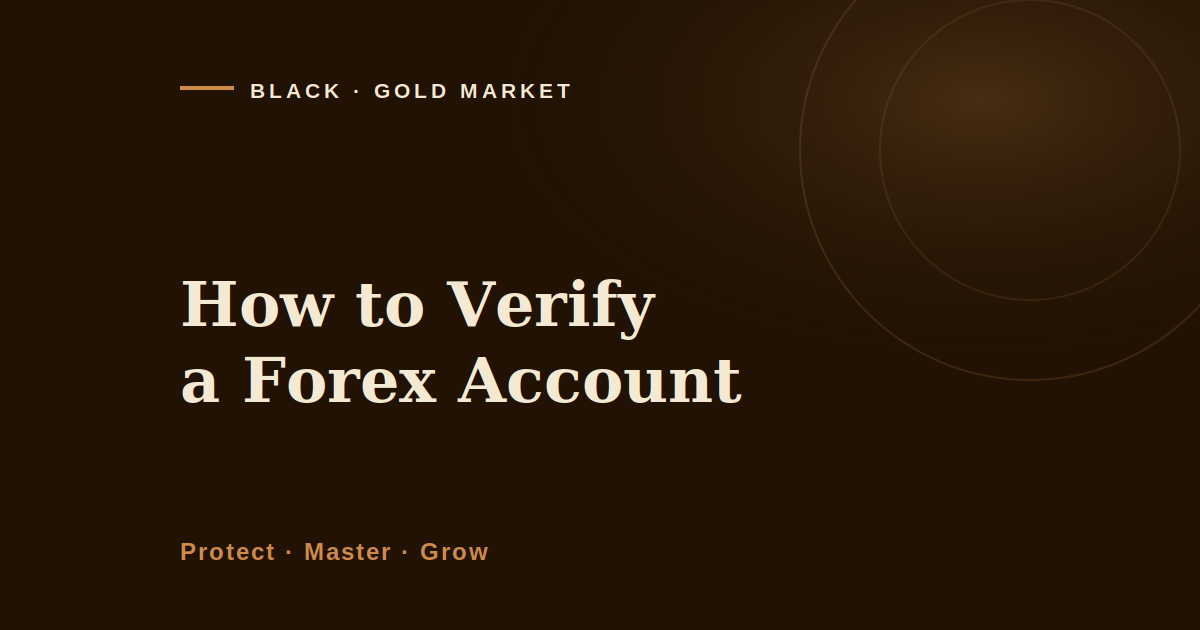
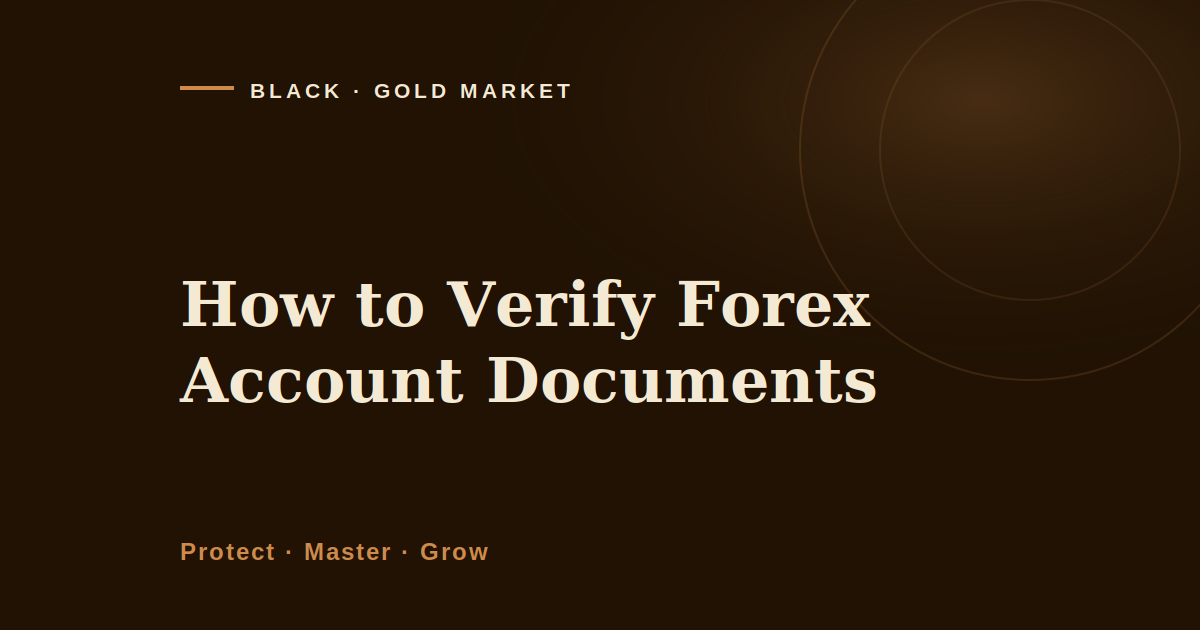
BGM 31/08: sua tieu de de chua NGUYEN CUM tu khoa chinh
Buoc kiem sau dang bat duoc: tieu de viet "How to Verify a Forex Account",
dung ngu phap nhung KHONG chua nguyen cum "how to verify forex account",
ma cong 2 doi cum phai co mat trong tieu de SEO. Chu "a" chen vao giua lam
hong nguyen cum, va may kiem cu chi so slug nen khong bat duoc.

Doi thanh "How to Verify Forex Account Documents", vua dung ngu phap vua
chua nguyen cum. Da doi dong bo o: the title, og:title, headline JSON-LD,
ten trong breadcrumb, h1, the tren ca hai trang muc luc, va ten trong
ItemList. Ve lai anh bia cho khop tieu de moi.

Claude-Session: https://claude.ai/code/session_01D4ZJMJrcRwGHYBMjWrRuSV

Changed region(s): [[0.1542, 0.5429, 0.74, 0.6635], [0.555, 0.4222, 0.74, 0.5429]]

diff --git a/journal/index.html b/journal/index.html
@@ -183,7 +183,7 @@
 </style>
 <!-- seo-schema-v1 -->
 <script type="application/ld+json">{"@context": "https://schema.org", "@type": "Blog", "name": "Black Gold Market Journal", "description": "Risk-first gold education: macro drivers, session mechanics and capital protection.", "url": "https://blackgoldmarket.us/journal/", "publisher": {"@type": "Organization", "name": "Black Gold Market", "logo": {"@type": "ImageObject", "url": "https://blackgoldmarket.us/avatar.jpg"}}, "author": {"@type": "Person", "name": "Raphael", "url": "https://blackgoldmarket.us/about.html"}}</script>
-<script type="application/ld+json">{"@context": "https://schema.org", "@type": "ItemList", "itemListElement": [{"@type": "ListItem", "position": 1, "url": "https://blackgoldmarket.us/journal/how-to-verify-forex-account.html", "name": "How to Verify a Forex Account, and Why the Broker Is Asking"}, {"@type": "ListItem", "position": 2, "url": "https://blackgoldmarket.us/journal/what-is-r1-r2-r3-in-trading.html", "name": "What Is R1 R2 R3 in Trading? The Arithmetic Behind the Lines"}, {"@type": "ListItem", "position": 3, "url": "https://blackgoldmarket.us/journal/is-forex-trading-cfd-or-spread-betting.html", "name": "Is Forex Trading CFD or Spread Betting? What You Actually Own"}, {"@type": "ListItem", "position": 4, "url": "https://blackgoldmarket.us/journal/how-to-find-a-trading-mentor.html", "name": "How to Find a Trading Mentor Without Getting Taken"}, {"@type": "ListItem", "position": 5, "url": "https://blackgoldmarket.us/journal/what-are-gold-reserves.html", "name": "What Are Gold Reserves, and Who Actually Holds Them"}, {"@type": "ListItem", "position": 6, "url": "https://blackgoldmarket.us/journal/stop-limit-order-explained.html", "name": "Stop Limit Order Explained: The Stop That Can Decline to Protect You"}, {"@type": "ListItem", "position": 7, "url": "https://blackgoldmarket.us/journal/what-is-the-difference-between-real-and-fake-gold.html", "name": "What Is the Difference Between Real and Fake Gold, and Which Tests Actually Work"}, {"@type": "ListItem", "position": 8, "url": "https://blackgoldmarket.us/journal/what-is-span-in-futures-trading.html", "name": "What Is SPAN in Futures Trading, and Who Really Sets Your Margin"}, {"@type": "ListItem", "position": 9, "url": "https://blackgoldmarket.us/journal/what-is-expectancy-in-trading.html", "name": "What Is Expectancy in Trading, and Why It Beats Chasing a Win Rate"}, {"@type": "ListItem", "position": 10, "url": "https://blackgoldmarket.us/journal/how-to-check-forex-broker-license.html", "name": "How to Check Forex Broker License Records Before You Deposit"}, {"@type": "ListItem", "position": 11, "url": "https://blackgoldmarket.us/journal/comex-vs-spot-gold-price.html", "name": "COMEX vs Spot Gold Price, Why One Metal Has Two Numbers"}, {"@type": "ListItem", "position": 12, "url": "https://blackgoldmarket.us/journal/how-much-does-it-cost-to-sell-gold.html", "name": "How Much Does It Cost to Sell Gold, and Why the Answer Is Measured in Years"}, {"@type": "ListItem", "position": 13, "url": "https://blackgoldmarket.us/journal/market-order-vs-limit-order.html", "name": "Market Order vs Limit Order, What Each Kind of Certainty Costs"}, {"@type": "ListItem", "position": 14, "url": "https://blackgoldmarket.us/journal/how-do-you-calculate-risk-reward-ratio.html", "name": "How Do You Calculate Risk Reward Ratio, and What the Answer Costs"}, {"@type": "ListItem", "position": 15, "url": "https://blackgoldmarket.us/journal/what-is-negative-balance-protection-in-forex.html", "name": "What Is Negative Balance Protection in Forex, and What It Is Worth"}, {"@type": "ListItem", "position": 16, "url": "https://blackgoldmarket.us/journal/gold-vs-real-yields.html", "name": "Gold vs Real Yields: What 128 Months of Data Actually Show"}, {"@type": "ListItem", "position": 17, "url": "https://blackgoldmarket.us/journal/commission-vs-spread-forex.html", "name": "Commission vs Spread Forex: What Each Cost Model Actually Takes From a Gold Trade"}, {"@type": "ListItem", "position": 18, "url": "https://blackgoldmarket.us/journal/gold-vs-silver-correlation.html", "name": "Gold vs Silver Correlation: The Diversification That Was Not There"}, {"@type": "ListItem", "position": 19, "url": "https://blackgoldmarket.us/journal/how-to-have-an-edge-in-trading.html", "name": "How to Have an Edge in Trading, and How Long Before You Can Prove It"}, {"@type": "ListItem", "position": 20, "url": "https://blackgoldmarket.us/journal/how-to-develop-patience-in-trading.html", "name": "How to Develop Patience in Trading, and What the Waiting Is Worth"}, {"@type": "ListItem", "position": 21, "url": "https://blackgoldmarket.us/journal/how-to-increase-win-rate-in-trading.html", "name": "How to Increase Win Rate in Trading, and What It Costs You"}, {"@type": "ListItem", "position": 22, "url": "https://blackgoldmarket.us/journal/trading-vs-investing-which-is-better.html", "name": "Trading vs Investing Which Is Better: What the Gold Record Shows"}, {"@type": "ListItem", "position": 23, "url": "https://blackgoldmarket.us/journal/how-to-get-better-at-trading.html", "name": "How to Get Better at Trading When the Indicator Is Not the Problem"}, {"@type": "ListItem", "position": 24, "url": "https://blackgoldmarket.us/journal/what-is-better-swing-trading-or-day-trading.html", "name": "What Is Better Swing Trading or Day Trading for an Account You Want to Keep"}, {"@type": "ListItem", "position": 25, "url": "https://blackgoldmarket.us/journal/how-to-control-emotions-in-trading.html", "name": "How to Control Emotions in Trading When You Cannot Simply Stay Calm"}, {"@type": "ListItem", "position": 26, "url": "https://blackgoldmarket.us/journal/how-to-recover-from-big-trading-loss.html", "name": "How to Recover From Big Trading Loss Without Making It Worse"}, {"@type": "ListItem", "position": 27, "url": "https://blackgoldmarket.us/journal/trading-discipline-rules.html", "name": "Trading Discipline Rules That Still Work on a Losing Day"}, {"@type": "ListItem", "position": 28, "url": "https://blackgoldmarket.us/journal/how-to-reduce-drawdown-in-trading.html", "name": "How to Reduce Drawdown in Trading: The Bet You Did Not Know You Made"}, {"@type": "ListItem", "position": 29, "url": "https://blackgoldmarket.us/journal/how-to-test-your-trading-strategy.html", "name": "How to Test Your Trading Strategy Without Fooling Yourself"}, {"@type": "ListItem", "position": 30, "url": "https://blackgoldmarket.us/journal/how-to-be-a-successful-trader-in-forex.html", "name": "How to Be a Successful Trader in Forex, When Three in Four Accounts Lose"}, {"@type": "ListItem", "position": 31, "url": "https://blackgoldmarket.us/journal/how-to-check-your-trade-on-metatrader-5.html", "name": "How to Check Your Trade on MetaTrader 5, and What the Profit Column Hides"}, {"@type": "ListItem", "position": 32, "url": "https://blackgoldmarket.us/journal/how-to-spot-a-gold-trading-scam.html", "name": "How to Spot a Gold Trading Scam"}, {"@type": "ListItem", "position": 33, "url": "https://blackgoldmarket.us/journal/why-gold-reacts-to-round-numbers.html", "name": "Why Gold Reacts to Round Numbers"}, {"@type": "ListItem", "position": 34, "url": "https://blackgoldmarket.us/journal/how-gold-behaves-in-the-new-york-session.html", "name": "How Gold Behaves in the New York Session"}, {"@type": "ListItem", "position": 35, "url": "https://blackgoldmarket.us/journal/why-managing-the-trade-matters-more-than-the-entry.html", "name": "Why Managing the Trade Matters More Than the Entry"}, {"@type": "ListItem", "position": 36, "url": "https://blackgoldmarket.us/journal/how-supply-and-demand-affect-the-price-of-gold.html", "name": "How Supply and Demand Affect the Price of Gold"}, {"@type": "ListItem", "position": 37, "url": "https://blackgoldmarket.us/journal/how-inflation-affects-the-price-of-gold.html", "name": "How Inflation Affects the Price of Gold"}, {"@type": "ListItem", "position": 38, "url": "https://blackgoldmarket.us/journal/how-the-us-dollar-affects-the-price-of-gold.html", "name": "How the US Dollar Affects the Price of Gold"}, {"@type": "ListItem", "position": 39, "url": "https://blackgoldmarket.us/journal/how-central-banks-affect-the-price-of-gold.html", "name": "How Central Banks Affect the Price of Gold"}, {"@type": "ListItem", "position": 40, "url": "https://blackgoldmarket.us/journal/how-interest-rates-affect-the-price-of-gold.html", "name": "How Interest Rates Affect the Price of Gold"}, {"@type": "ListItem", "position": 41, "url": "https://blackgoldmarket.us/journal/what-is-a-margin-call-and-how-to-avoid-one.html", "name": "What Is a Margin Call, and How Do You Avoid One?"}, {"@type": "ListItem", "position": 42, "url": "https://blackgoldmarket.us/journal/how-to-trade-gold-safely-during-geopolitical-shocks.html", "name": "How to Trade Gold Safely During Geopolitical Shocks"}, {"@type": "ListItem", "position": 43, "url": "https://blackgoldmarket.us/journal/gold-in-the-european-session.html", "name": "How Gold Moves in the European Session (and How to Protect Your Capital)"}, {"@type": "ListItem", "position": 44, "url": "https://blackgoldmarket.us/journal/what-is-drawdown-and-how-to-recover.html", "name": "What Is Drawdown, and How Do You Recover From It?"}, {"@type": "ListItem", "position": 45, "url": "https://blackgoldmarket.us/journal/why-gold-trades-in-sessions.html", "name": "Why Gold Trades in Sessions, and Which Hours Actually Matter"}, {"@type": "ListItem", "position": 46, "url": "https://blackgoldmarket.us/journal/how-to-trade-around-high-impact-news.html", "name": "How to Trade Around High-Impact News Without Blowing Up"}, {"@type": "ListItem", "position": 47, "url": "https://blackgoldmarket.us/journal/position-sizing-so-one-trade-cannot-hurt-you.html", "name": "Position Sizing: How to Size a Trade So One Loss Cannot Hurt You"}, {"@type": "ListItem", "position": 48, "url": "https://blackgoldmarket.us/journal/overtrading-the-habit-that-drains-your-account.html", "name": "Overtrading: The Quiet Habit That Drains Your Account"}, {"@type": "ListItem", "position": 49, "url": "https://blackgoldmarket.us/journal/why-trading-is-a-marathon-not-a-sprint.html", "name": "Why Trading Is a Marathon, Not a Sprint"}, {"@type": "ListItem", "position": 50, "url": "https://blackgoldmarket.us/journal/how-to-stop-revenge-trading.html", "name": "How to Stop Revenge Trading Before It Empties Your Account"}, {"@type": "ListItem", "position": 51, "url": "https://blackgoldmarket.us/journal/how-to-stop-depending-on-trading-signals.html", "name": "How to Stop Depending on Trading Signals (and Trade Gold on Your Own)"}, {"@type": "ListItem", "position": 52, "url": "https://blackgoldmarket.us/journal/how-to-protect-your-capital-when-gold-gets-volatile.html", "name": "How to Protect Your Capital When Gold Gets Volatile"}, {"@type": "ListItem", "position": 53, "url": "https://blackgoldmarket.us/journal/why-you-take-profit-too-early.html", "name": "Why You Keep Taking Profit Too Early (and How to Hold Your Winners)"}, {"@type": "ListItem", "position": 54, "url": "https://blackgoldmarket.us/journal/how-to-read-golds-trend-and-market-structure.html", "name": "How to Read Gold&#x27;s Trend and Market Structure Before You Trade"}, {"@type": "ListItem", "position": 55, "url": "https://blackgoldmarket.us/journal/why-the-best-trades-are-the-ones-you-dont-take.html", "name": "Why the Best Trades Are the Ones You Don&#x27;t Take"}, {"@type": "ListItem", "position": 56, "url": "https://blackgoldmarket.us/journal/trading-is-a-game-of-probability.html", "name": "Trading Is a Game of Probability: Why One Red Day Says Nothing About You"}, {"@type": "ListItem", "position": 57, "url": "https://blackgoldmarket.us/journal/why-gold-rises-in-times-of-fear.html", "name": "Why Gold Rises in Times of Fear, and What It Means for Your Trading"}, {"@type": "ListItem", "position": 58, "url": "https://blackgoldmarket.us/journal/how-to-be-a-consistent-trader.html", "name": "How to Be a Consistent Trader (When You Keep Giving Back Your Wins)"}]}</script>
+<script type="application/ld+json">{"@context": "https://schema.org", "@type": "ItemList", "itemListElement": [{"@type": "ListItem", "position": 1, "url": "https://blackgoldmarket.us/journal/how-to-verify-forex-account.html", "name": "How to Verify Forex Account Documents, and Why the Broker Is Asking"}, {"@type": "ListItem", "position": 2, "url": "https://blackgoldmarket.us/journal/what-is-r1-r2-r3-in-trading.html", "name": "What Is R1 R2 R3 in Trading? The Arithmetic Behind the Lines"}, {"@type": "ListItem", "position": 3, "url": "https://blackgoldmarket.us/journal/is-forex-trading-cfd-or-spread-betting.html", "name": "Is Forex Trading CFD or Spread Betting? What You Actually Own"}, {"@type": "ListItem", "position": 4, "url": "https://blackgoldmarket.us/journal/how-to-find-a-trading-mentor.html", "name": "How to Find a Trading Mentor Without Getting Taken"}, {"@type": "ListItem", "position": 5, "url": "https://blackgoldmarket.us/journal/what-are-gold-reserves.html", "name": "What Are Gold Reserves, and Who Actually Holds Them"}, {"@type": "ListItem", "position": 6, "url": "https://blackgoldmarket.us/journal/stop-limit-order-explained.html", "name": "Stop Limit Order Explained: The Stop That Can Decline to Protect You"}, {"@type": "ListItem", "position": 7, "url": "https://blackgoldmarket.us/journal/what-is-the-difference-between-real-and-fake-gold.html", "name": "What Is the Difference Between Real and Fake Gold, and Which Tests Actually Work"}, {"@type": "ListItem", "position": 8, "url": "https://blackgoldmarket.us/journal/what-is-span-in-futures-trading.html", "name": "What Is SPAN in Futures Trading, and Who Really Sets Your Margin"}, {"@type": "ListItem", "position": 9, "url": "https://blackgoldmarket.us/journal/what-is-expectancy-in-trading.html", "name": "What Is Expectancy in Trading, and Why It Beats Chasing a Win Rate"}, {"@type": "ListItem", "position": 10, "url": "https://blackgoldmarket.us/journal/how-to-check-forex-broker-license.html", "name": "How to Check Forex Broker License Records Before You Deposit"}, {"@type": "ListItem", "position": 11, "url": "https://blackgoldmarket.us/journal/comex-vs-spot-gold-price.html", "name": "COMEX vs Spot Gold Price, Why One Metal Has Two Numbers"}, {"@type": "ListItem", "position": 12, "url": "https://blackgoldmarket.us/journal/how-much-does-it-cost-to-sell-gold.html", "name": "How Much Does It Cost to Sell Gold, and Why the Answer Is Measured in Years"}, {"@type": "ListItem", "position": 13, "url": "https://blackgoldmarket.us/journal/market-order-vs-limit-order.html", "name": "Market Order vs Limit Order, What Each Kind of Certainty Costs"}, {"@type": "ListItem", "position": 14, "url": "https://blackgoldmarket.us/journal/how-do-you-calculate-risk-reward-ratio.html", "name": "How Do You Calculate Risk Reward Ratio, and What the Answer Costs"}, {"@type": "ListItem", "position": 15, "url": "https://blackgoldmarket.us/journal/what-is-negative-balance-protection-in-forex.html", "name": "What Is Negative Balance Protection in Forex, and What It Is Worth"}, {"@type": "ListItem", "position": 16, "url": "https://blackgoldmarket.us/journal/gold-vs-real-yields.html", "name": "Gold vs Real Yields: What 128 Months of Data Actually Show"}, {"@type": "ListItem", "position": 17, "url": "https://blackgoldmarket.us/journal/commission-vs-spread-forex.html", "name": "Commission vs Spread Forex: What Each Cost Model Actually Takes From a Gold Trade"}, {"@type": "ListItem", "position": 18, "url": "https://blackgoldmarket.us/journal/gold-vs-silver-correlation.html", "name": "Gold vs Silver Correlation: The Diversification That Was Not There"}, {"@type": "ListItem", "position": 19, "url": "https://blackgoldmarket.us/journal/how-to-have-an-edge-in-trading.html", "name": "How to Have an Edge in Trading, and How Long Before You Can Prove It"}, {"@type": "ListItem", "position": 20, "url": "https://blackgoldmarket.us/journal/how-to-develop-patience-in-trading.html", "name": "How to Develop Patience in Trading, and What the Waiting Is Worth"}, {"@type": "ListItem", "position": 21, "url": "https://blackgoldmarket.us/journal/how-to-increase-win-rate-in-trading.html", "name": "How to Increase Win Rate in Trading, and What It Costs You"}, {"@type": "ListItem", "position": 22, "url": "https://blackgoldmarket.us/journal/trading-vs-investing-which-is-better.html", "name": "Trading vs Investing Which Is Better: What the Gold Record Shows"}, {"@type": "ListItem", "position": 23, "url": "https://blackgoldmarket.us/journal/how-to-get-better-at-trading.html", "name": "How to Get Better at Trading When the Indicator Is Not the Problem"}, {"@type": "ListItem", "position": 24, "url": "https://blackgoldmarket.us/journal/what-is-better-swing-trading-or-day-trading.html", "name": "What Is Better Swing Trading or Day Trading for an Account You Want to Keep"}, {"@type": "ListItem", "position": 25, "url": "https://blackgoldmarket.us/journal/how-to-control-emotions-in-trading.html", "name": "How to Control Emotions in Trading When You Cannot Simply Stay Calm"}, {"@type": "ListItem", "position": 26, "url": "https://blackgoldmarket.us/journal/how-to-recover-from-big-trading-loss.html", "name": "How to Recover From Big Trading Loss Without Making It Worse"}, {"@type": "ListItem", "position": 27, "url": "https://blackgoldmarket.us/journal/trading-discipline-rules.html", "name": "Trading Discipline Rules That Still Work on a Losing Day"}, {"@type": "ListItem", "position": 28, "url": "https://blackgoldmarket.us/journal/how-to-reduce-drawdown-in-trading.html", "name": "How to Reduce Drawdown in Trading: The Bet You Did Not Know You Made"}, {"@type": "ListItem", "position": 29, "url": "https://blackgoldmarket.us/journal/how-to-test-your-trading-strategy.html", "name": "How to Test Your Trading Strategy Without Fooling Yourself"}, {"@type": "ListItem", "position": 30, "url": "https://blackgoldmarket.us/journal/how-to-be-a-successful-trader-in-forex.html", "name": "How to Be a Successful Trader in Forex, When Three in Four Accounts Lose"}, {"@type": "ListItem", "position": 31, "url": "https://blackgoldmarket.us/journal/how-to-check-your-trade-on-metatrader-5.html", "name": "How to Check Your Trade on MetaTrader 5, and What the Profit Column Hides"}, {"@type": "ListItem", "position": 32, "url": "https://blackgoldmarket.us/journal/how-to-spot-a-gold-trading-scam.html", "name": "How to Spot a Gold Trading Scam"}, {"@type": "ListItem", "position": 33, "url": "https://blackgoldmarket.us/journal/why-gold-reacts-to-round-numbers.html", "name": "Why Gold Reacts to Round Numbers"}, {"@type": "ListItem", "position": 34, "url": "https://blackgoldmarket.us/journal/how-gold-behaves-in-the-new-york-session.html", "name": "How Gold Behaves in the New York Session"}, {"@type": "ListItem", "position": 35, "url": "https://blackgoldmarket.us/journal/why-managing-the-trade-matters-more-than-the-entry.html", "name": "Why Managing the Trade Matters More Than the Entry"}, {"@type": "ListItem", "position": 36, "url": "https://blackgoldmarket.us/journal/how-supply-and-demand-affect-the-price-of-gold.html", "name": "How Supply and Demand Affect the Price of Gold"}, {"@type": "ListItem", "position": 37, "url": "https://blackgoldmarket.us/journal/how-inflation-affects-the-price-of-gold.html", "name": "How Inflation Affects the Price of Gold"}, {"@type": "ListItem", "position": 38, "url": "https://blackgoldmarket.us/journal/how-the-us-dollar-affects-the-price-of-gold.html", "name": "How the US Dollar Affects the Price of Gold"}, {"@type": "ListItem", "position": 39, "url": "https://blackgoldmarket.us/journal/how-central-banks-affect-the-price-of-gold.html", "name": "How Central Banks Affect the Price of Gold"}, {"@type": "ListItem", "position": 40, "url": "https://blackgoldmarket.us/journal/how-interest-rates-affect-the-price-of-gold.html", "name": "How Interest Rates Affect the Price of Gold"}, {"@type": "ListItem", "position": 41, "url": "https://blackgoldmarket.us/journal/what-is-a-margin-call-and-how-to-avoid-one.html", "name": "What Is a Margin Call, and How Do You Avoid One?"}, {"@type": "ListItem", "position": 42, "url": "https://blackgoldmarket.us/journal/how-to-trade-gold-safely-during-geopolitical-shocks.html", "name": "How to Trade Gold Safely During Geopolitical Shocks"}, {"@type": "ListItem", "position": 43, "url": "https://blackgoldmarket.us/journal/gold-in-the-european-session.html", "name": "How Gold Moves in the European Session (and How to Protect Your Capital)"}, {"@type": "ListItem", "position": 44, "url": "https://blackgoldmarket.us/journal/what-is-drawdown-and-how-to-recover.html", "name": "What Is Drawdown, and How Do You Recover From It?"}, {"@type": "ListItem", "position": 45, "url": "https://blackgoldmarket.us/journal/why-gold-trades-in-sessions.html", "name": "Why Gold Trades in Sessions, and Which Hours Actually Matter"}, {"@type": "ListItem", "position": 46, "url": "https://blackgoldmarket.us/journal/how-to-trade-around-high-impact-news.html", "name": "How to Trade Around High-Impact News Without Blowing Up"}, {"@type": "ListItem", "position": 47, "url": "https://blackgoldmarket.us/journal/position-sizing-so-one-trade-cannot-hurt-you.html", "name": "Position Sizing: How to Size a Trade So One Loss Cannot Hurt You"}, {"@type": "ListItem", "position": 48, "url": "https://blackgoldmarket.us/journal/overtrading-the-habit-that-drains-your-account.html", "name": "Overtrading: The Quiet Habit That Drains Your Account"}, {"@type": "ListItem", "position": 49, "url": "https://blackgoldmarket.us/journal/why-trading-is-a-marathon-not-a-sprint.html", "name": "Why Trading Is a Marathon, Not a Sprint"}, {"@type": "ListItem", "position": 50, "url": "https://blackgoldmarket.us/journal/how-to-stop-revenge-trading.html", "name": "How to Stop Revenge Trading Before It Empties Your Account"}, {"@type": "ListItem", "position": 51, "url": "https://blackgoldmarket.us/journal/how-to-stop-depending-on-trading-signals.html", "name": "How to Stop Depending on Trading Signals (and Trade Gold on Your Own)"}, {"@type": "ListItem", "position": 52, "url": "https://blackgoldmarket.us/journal/how-to-protect-your-capital-when-gold-gets-volatile.html", "name": "How to Protect Your Capital When Gold Gets Volatile"}, {"@type": "ListItem", "position": 53, "url": "https://blackgoldmarket.us/journal/why-you-take-profit-too-early.html", "name": "Why You Keep Taking Profit Too Early (and How to Hold Your Winners)"}, {"@type": "ListItem", "position": 54, "url": "https://blackgoldmarket.us/journal/how-to-read-golds-trend-and-market-structure.html", "name": "How to Read Gold&#x27;s Trend and Market Structure Before You Trade"}, {"@type": "ListItem", "position": 55, "url": "https://blackgoldmarket.us/journal/why-the-best-trades-are-the-ones-you-dont-take.html", "name": "Why the Best Trades Are the Ones You Don&#x27;t Take"}, {"@type": "ListItem", "position": 56, "url": "https://blackgoldmarket.us/journal/trading-is-a-game-of-probability.html", "name": "Trading Is a Game of Probability: Why One Red Day Says Nothing About You"}, {"@type": "ListItem", "position": 57, "url": "https://blackgoldmarket.us/journal/why-gold-rises-in-times-of-fear.html", "name": "Why Gold Rises in Times of Fear, and What It Means for Your Trading"}, {"@type": "ListItem", "position": 58, "url": "https://blackgoldmarket.us/journal/how-to-be-a-consistent-trader.html", "name": "How to Be a Consistent Trader (When You Keep Giving Back Your Wins)"}]}</script>
 <script type="application/ld+json">{"@context": "https://schema.org", "@type": "BreadcrumbList", "itemListElement": [{"@type": "ListItem", "position": 1, "name": "Home", "item": "https://blackgoldmarket.us/"}, {"@type": "ListItem", "position": 2, "name": "Journal", "item": "https://blackgoldmarket.us/journal/"}]}</script>
 <style>.tgate{position:fixed;inset:0;z-index:99999;display:none;align-items:center;justify-content:center;padding:20px;background:rgba(20,12,8,.72)}.tgate[open]{display:flex}.tgate__card{position:relative;width:100%;max-width:430px;background:#FFF9F2;color:#321C04;border:1px solid #D9C4AA;border-radius:8px;padding:30px 28px 26px;box-shadow:0 24px 60px rgba(0,0,0,.45);text-align:left}.tgate__x{position:absolute;top:9px;right:11px;width:32px;height:32px;font:400 24px/1 Helvetica,Arial,sans-serif;color:#6F5433;background:none;border:0;cursor:pointer;border-radius:4px}.tgate__k{font:700 12px/1.4 Helvetica,Arial,sans-serif;letter-spacing:.14em;text-transform:uppercase;color:#8f6a24;margin:0 0 8px}.tgate__h{font:600 21px/1.3 Georgia,serif;margin:0 0 8px;color:#321C04}.tgate__s{font:400 14px/1.5 Helvetica,Arial,sans-serif;color:#6F5433;margin:0 0 18px}.tgate input[type=email]{width:100%;box-sizing:border-box;padding:13px 14px;font-size:16px;color:#321C04;background:#fff;border:1px solid #D9C4AA;border-radius:4px;margin:0 0 12px}.tgate button[type=submit]{width:100%;padding:14px 18px;font:700 15px Helvetica,Arial,sans-serif;color:#FFF9F2;background:#321C04;border:0;border-radius:4px;cursor:pointer}.tgate button[type=submit]:hover{background:#1F1003}.tgate button[type=submit][disabled]{opacity:.6;cursor:default}.tgate__hp{position:absolute;left:-9999px;width:1px;height:1px;overflow:hidden}.tgate__msg{font:600 13px Helvetica,Arial,sans-serif;margin:10px 0 0;min-height:1em;color:#8f6a24}.tgate__msg.bad{color:#a4562a}.tgate__skip{display:block;width:100%;margin:12px 0 0;padding:4px;font:400 13px Helvetica,Arial,sans-serif;color:#6F5433;background:none;border:0;text-decoration:underline;cursor:pointer}.tgate__note{font:400 12px/1.55 Helvetica,Arial,sans-serif;color:#6F5433;margin:14px 0 0}</style>
 </head>
@@ -239,7 +239,7 @@
  <div class="j-grid">
 <a class="jcard" href="how-to-verify-forex-account.html">
  <span class="tag">Protect</span>
- <h3>How to Verify a Forex Account, and Why the Broker Is Asking</h3>
+ <h3>How to Verify Forex Account Documents, and Why the Broker Is Asking</h3>
  <p>The upload nobody enjoys is the one that decides whether a withdrawal can be paid. Investment fraud took 6.57 billion dollars in the US in 2024, 39.6 percent of all reported losses, and almost none of it moved through firms that check who you are.</p>
  <span class="read">Read the article &rarr;</span>
 </a>

diff --git a/journal/how-to-verify-forex-account.html b/journal/how-to-verify-forex-account.html
@@ -6,9 +6,9 @@
 <script async src="https://www.googletagmanager.com/gtag/js?id=G-NL24SJYSZ8"></script>
 <script>window.dataLayer=window.dataLayer||[];function gtag(){dataLayer.push(arguments);}gtag('js',new Date());gtag('config','G-NL24SJYSZ8');</script>
 <meta name="viewport" content="width=device-width, initial-scale=1">
-<title>How to Verify a Forex Account, and Why the Broker Is Asking, Black Gold Market</title>
+<title>How to Verify Forex Account Documents, and Why the Broker Is Asking, Black Gold Market</title>
 <meta name="description" content="How to verify forex account documents, and what the step is actually protecting. Investment fraud took $6.57 billion in the US in 2024, 39.6% of all reported losses.">
-<meta property="og:title" content="How to Verify a Forex Account">
+<meta property="og:title" content="How to Verify Forex Account Documents">
 <meta property="og:description" content="How to verify forex account documents, and what the step is actually protecting. Investment fraud took $6.57 billion in the US in 2024, 39.6% of all reported losses.">
 <meta property="og:image" content="https://blackgoldmarket.us/assets/hero/how-to-verify-forex-account.png">
 <meta property="og:type" content="article">
@@ -176,8 +176,8 @@
  .tgate__note{font-family:var(--sans);font-size:.72rem;line-height:1.55;color:var(--muted);margin:14px 0 0}
  .tgate__skip{display:block;width:100%;margin:12px 0 0;padding:4px;font-family:var(--sans);font-size:.78rem;color:var(--muted);background:none;border:0;text-decoration:underline;cursor:pointer}
 </style>
-<script type="application/ld+json">{"@context": "https://schema.org", "@type": "Article", "headline": "How to Verify a Forex Account", "description": "How to verify forex account documents, and what the step is actually protecting. Investment fraud took $6.57 billion in the US in 2024, 39.6% of all reported losses.", "image": "https://blackgoldmarket.us/assets/hero/how-to-verify-forex-account.png", "author": {"@type": "Person", "name": "Raphael", "url": "https://blackgoldmarket.us/about.html"}, "publisher": {"@type": "Organization", "name": "Black Gold Market", "logo": {"@type": "ImageObject", "url": "https://blackgoldmarket.us/avatar.jpg"}}, "datePublished": "2026-08-31T06:00:00+07:00", "dateModified": "2026-08-31T06:00:00+07:00", "mainEntityOfPage": {"@type": "WebPage", "@id": "https://blackgoldmarket.us/journal/how-to-verify-forex-account.html"}}</script>
-<script type="application/ld+json">{"@context": "https://schema.org", "@type": "BreadcrumbList", "itemListElement": [{"@type": "ListItem", "position": 1, "name": "Home", "item": "https://blackgoldmarket.us/"}, {"@type": "ListItem", "position": 2, "name": "Journal", "item": "https://blackgoldmarket.us/journal/"}, {"@type": "ListItem", "position": 3, "name": "How to Verify a Forex Account", "item": "https://blackgoldmarket.us/journal/how-to-verify-forex-account.html"}]}</script>
+<script type="application/ld+json">{"@context": "https://schema.org", "@type": "Article", "headline": "How to Verify Forex Account Documents", "description": "How to verify forex account documents, and what the step is actually protecting. Investment fraud took $6.57 billion in the US in 2024, 39.6% of all reported losses.", "image": "https://blackgoldmarket.us/assets/hero/how-to-verify-forex-account.png", "author": {"@type": "Person", "name": "Raphael", "url": "https://blackgoldmarket.us/about.html"}, "publisher": {"@type": "Organization", "name": "Black Gold Market", "logo": {"@type": "ImageObject", "url": "https://blackgoldmarket.us/avatar.jpg"}}, "datePublished": "2026-08-31T06:00:00+07:00", "dateModified": "2026-08-31T06:00:00+07:00", "mainEntityOfPage": {"@type": "WebPage", "@id": "https://blackgoldmarket.us/journal/how-to-verify-forex-account.html"}}</script>
+<script type="application/ld+json">{"@context": "https://schema.org", "@type": "BreadcrumbList", "itemListElement": [{"@type": "ListItem", "position": 1, "name": "Home", "item": "https://blackgoldmarket.us/"}, {"@type": "ListItem", "position": 2, "name": "Journal", "item": "https://blackgoldmarket.us/journal/"}, {"@type": "ListItem", "position": 3, "name": "How to Verify Forex Account Documents", "item": "https://blackgoldmarket.us/journal/how-to-verify-forex-account.html"}]}</script>
 </head>
 <body>
 
@@ -206,7 +206,7 @@
  <div class="wrap">
  <div>
  <p class="eyebrow fade">Know who is holding your money</p>
- <h1 class="fade d1">How to Verify a <span class="q">Forex Account</span></h1>
+ <h1 class="fade d1">How to Verify <span class="q">Forex Account</span> Documents</h1>
  <p class="standfirst fade d2">The upload nobody enjoys is the one that decides whether your money can come back out. What the broker must ask, and what it means when one does not.</p>
  <div class="byline fade d3">
  <div>By <b>Raphael</b> &nbsp;&middot;&nbsp; XAU/USD &nbsp;&middot;&nbsp; 10 min read</div>

diff --git a/index.html b/index.html
@@ -611,7 +611,7 @@
  <div class="j-grid">
 <a class="jcard" href="journal/how-to-verify-forex-account.html">
  <span class="tag">Protect</span>
- <h3>How to Verify a Forex Account, and Why the Broker Is Asking</h3>
+ <h3>How to Verify Forex Account Documents, and Why the Broker Is Asking</h3>
  <p>The upload nobody enjoys is the one that decides whether a withdrawal can be paid. Investment fraud took 6.57 billion dollars in the US in 2024, 39.6 percent of all reported losses, and almost none of it moved through firms that check who you are.</p>
  <span class="read">Read the article &rarr;</span>
 </a>
